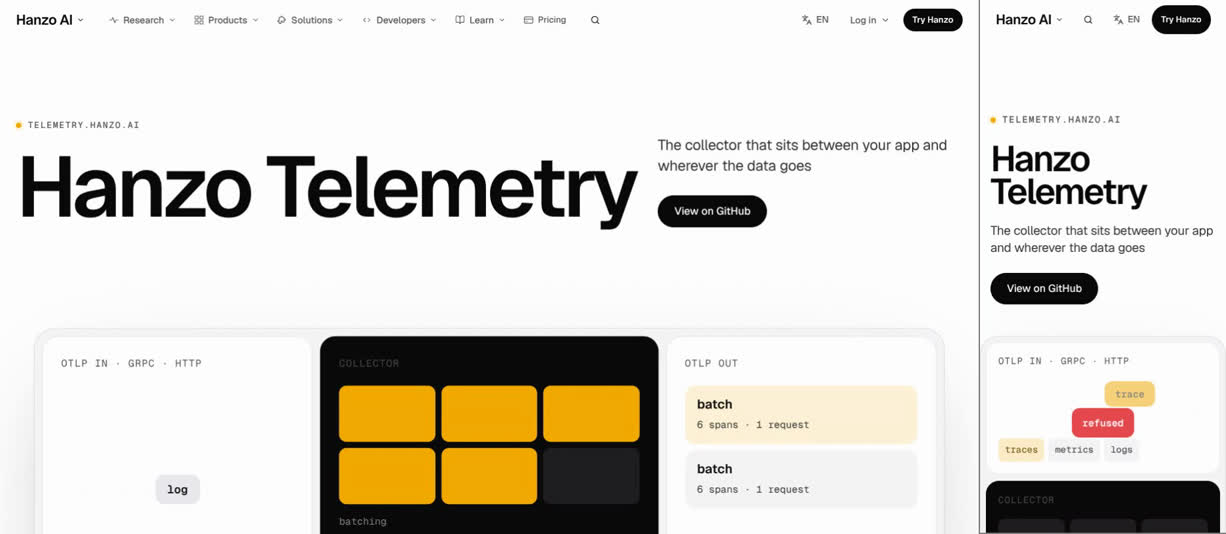
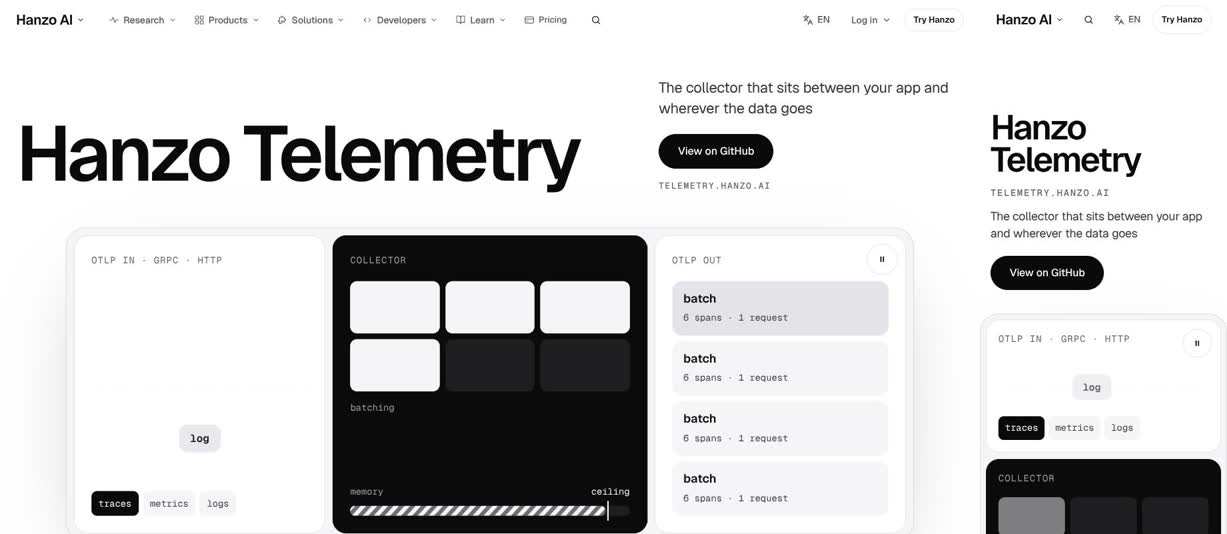
re-review: /telemetry 6/10 on the recoloured build (ask bar over content, everything big, phone still, CLS 0.21)
Claude-Session: https://claude.ai/code/session_01DqUybEnABm6Lfey1goid2b

diff --git a/docs/review/telemetry.md b/docs/review/telemetry.md
@@ -1,84 +1,157 @@
 # /telemetry: James-eye review
 
-Verdict: 5/10
-First complaint: "It's yellow, with red on top. I said greys, silvers, blacks and whites, and here the boxes, the tags, the code highlights and even the glow are yellow. There's a little label stuck on the headline again. And on my phone, after the top, it's the same code file six times with nothing moving."
+Verdict: 6/10
+First complaint: "The colours are right now, but the title's enormous and so is every heading after it. And that little pill at the bottom sits right on top of the code. On my phone, once you're past the top it's the same code file six times and nothing moves."
 
-Reviewed: branch `claude/laughing-hamilton-uisesd` @ `cd5ee2a` (merged to main at this commit; later branch commits only move the shared hero, chapters and close files into `v2/x-hamilton/`, which this walk did not see). Files hash: `e5edfd07ed87`
-Walked 7 Nov 14:01–14:04 UTC on the dev server, moving, at 1470×801 and 375×812 (videos, frame sheets and a frame-difference motion log kept by the critic; the site loader was skipped).
+Reviewed: main @ `2106935` (last page commit `175356b`). Files hash: `54069e1a99ff`
+Walked 7 Nov 14:47–14:51 UTC on the dev server, moving, at 1470×801 and 375×812 (videos, frame sheets and a frame-difference motion log kept by the critic; the site loader was skipped).
 Proof: `img/telemetry.jpg` (desktop first screen | phone first screen).
 
+## Since the last review
+- **Done: the colour and the eyebrow.** There are 0 hues at either width. Before, amber showed in 75 text, 14 background and 8 border uses, plus red. The batch tiles now fill white on black. "refused" is a dashed ink word. The full memory bar hatches grey, and the glow under the config window is white. "telemetry.hanzo.ai" is now a caption under the button on desktop and under the h1 on phone. Nothing sits above any headline.
+- **Done: the first screen, JS off and the chapters.** On desktop, 6 of 25 frames move in the first second after paint (it was 0/25). The memory bar and its ceiling now sit inside 1470×801 (they were below the fold). With JS off nothing is hidden (it was 8 runs, the lede and the ask among them). All six chapters now play on desktop, in order (02–04 were skipped). 04 "A memory ceiling" falls between two screen stops, but the film shows it with memory_limiter lit.
+- **Done: one verb, presses, coverage.** "View on GitHub" is the solid button in the hero, the ask bar and the close. "Deploy to Cloud" is a text link. There are 3 `data-cta` and 1 `data-thumb` (it was 0). The hero button and "hanzoai" press to 0.98, and the rail ticks answer on hover (they were dead or opacity-only). The header names Persona, Goal and CTA, and `docs/coverage/telemetry.md` exists.
+- **Still open in this walk:**
+  - The phone chapters still print the whole 20-line config six times, and nothing moves from s2 to s11.
+  - The seven "Your config" toggles are still solid black pills with dead hovers.
+  - Desktop CLS is worse: 0.213 (it was 0.119).
+  - The first screen and the close are still the Cloud 4 kit.
+  - The copyable config is still the builder's text, and it is not listed as a question for James.
+- **Not walked yet:** `ad2351f` and `d1a2614` reached main through `c3615cd` at 14:52, after this walk started at 14:47. `ad2351f` adds the compact phone config, outlined toggles with checks and fixed heights. `d1a2614` sets h1 52 and heads 26. The coverage card already describes them. On paper they answer fixes 2–5 below; a fresh walk decides.
+
 ## The 11 answers
-1. **Sells in 5 seconds, moves within 1 second?** The words are clear ("Hanzo Telemetry / The collector that sits between your app and wherever the data goes"). The title is 128px on one line at line height 0.92 and cuts in by line mask. The collector under it runs by itself: spans come in one at a time, six tiles fill, a batch leaves as "6 spans · 1 request", the memory bar climbs to the ceiling and the input says "refused". That is the best hero motion in the Cloud 4 group. Desktop still misses the 1-second test: 0 of 25 frames change in the first second after paint. On the dev server the body is blank under the header for about 2 s, as on every page walked, and only then does the title cut in and the collector start (8/55 moving frames in the rest of the 3 s idle, 9/47 in the first dwell). At 1470×801 the collector starts at about y 495, so you see its top 300px. The memory bar and the ceiling, which show "a memory ceiling", sit below the fold. Phone is better: the collector's input column peeks under the button with a chip moving (11/25 moving frames in the first second, 53/59 after).
-2. **One in, one out, or a document?** Desktop starts right. The hero pins, the copy fades and the collector rises and grows into the centre (s1, s2). Then the dark room "One hop you control" pins a config file on the left and one fact on the right, with that fact's block lit. That is the Apple move, but it broke in the walk:
-   - The file sat on 01 for two whole screens (y 4467 and 5117; 0/45 moving frames at 4467). It then jumped to 05 at 5767 and 06 at 6417.
-   - 02 "Traces, metrics and logs", 03 "Batching" and 04 "A memory ceiling" never appeared on desktop.
-   - Pressing the rail's 04 moved the page 2019→3706 and the file still read 01.
-
-   After the chapters, "Put it in front of your backend" opens on a near-empty white screen: the heading alone at the left, with the picker below the fold (s7 frames). Phone is a document: the chapters stack as six blocks, each with its own copy of the same 20-line config. From s3 to s10 nothing visibly moves (largest frame change 1.4; 3 of those 8 screens measure STILL).
-3. **A real object in every section?** Mostly. The hero has the running collector: a drawn diagram of three boxes, not Hanzo product UI, but it does exactly what the copy says. The chapters have the config file, which is code in a window and is repeated six times on phone. "Your config" is a working object: the toggles rewrite the file, and Copy turns to "Copied" on phone. "Get Telemetry" has no object, only big type and two chips.
-4. **One ask, sticky after the hero?** No.
-   - The hero has one solid button, "View on GitHub" (magnetic). On desktop it stays only while the hero is pinned (s0–s1). From s2 on, the only sticky solid is the global header's "Try Hanzo", so no page ask follows you.
-   - Phone: the header's "Try Hanzo" and the bottom bar's "View on GitHub →" are two solid asks on every screen from s2 to s11.
-   - The close's solid button is a third verb, "Deploy to Cloud".
-   - When on, the seven "Your config" toggles (traces, metrics, logs, gRPC, HTTP, batching, memory ceiling) are solid black pills drawn like the primary button: seven equal black buttons on one screen (s7 desktop, s10 phone).
-5. **Every hover and press answers?** No.
-   - "View on GitHub" (hero): the hover answers (magnetic), but there is no press state.
-   - Chapter rail "01": dead hover. Rail "04": opacity-only hover (banned: "buttons that fade on hover"). Both press to 0.98, and pressing jumps the page by 1,700px.
-   - Config pills "traces", "metrics", "gRPC" and "memory ceiling": dead hover. They press to 0.96.
-   - The "hanzoai" chip and "Deploy to Cloud": the hover answers, but there is no press.
-   - Phone taps on "traces", "logs" and "Copy" all answer.
-   - Apart from the two magnetic buttons, nothing follows the pointer.
-6. **Overlap, font swap, layout shift?** Layout shift on desktop: CLS 0.119, over CANON's 0.1 fail line (the lab target is 0.02). The shift comes from the hero's batch list (0.065), the config window (0.059), the memory bar (0.051) and the signal tags (0.051). Phone CLS is 0.007. The h1 box is steady (one reading: 940×123 at top 218 on desktop, 343×108 at 216 on phone). No overlaps were measured, and there is no horizontal scroll at 375 or 320.
-7. **Which reference, and is its motion there?** apple.com product page: the stage that settles as you scroll and the pinned file with one block lit per fact. Both are there, but on desktop half the chapters were skipped. motion.dev: the magnetic primary and the "OTLP OUT" list sliding as batches land. anthropic launch: no hero figure. synchronized.studio card-open: absent, because nothing opens into its page.
-8. **Different from its neighbours?** No. It is the Cloud 4 kit:
-   - The hero is the same `StageHero look="split"` as /billing.
-   - The first screen matches /tunnel: a 128px "Hanzo X" on the left, the lede and a black button on the right, a product strip under them. /metrics and /ledger have the same strip on the fold.
-   - The "01 / 06" pinned chapters in one dark room are the same `PinScenes` as /search and /billing.
-   - The "● X.HANZO.AI" eyebrow is the same as on /search, /sentinel and /metrics.
-   - The close (Paste and ship, Get Telemetry, licence chip, hanzoai chip, Deploy to Cloud) is the same as on every Cloud 4 page.
-
-   Amber is what tells it apart, and /treasury uses the same amber (hue 45). James: "We don't want every page being the same."
-9. **All 18 parts covered?** No; see below. `docs/coverage/telemetry.md` is missing.
+1. **Sells in 5 seconds, moves within 1 second?** Yes.
+   - Desktop: "Hanzo Telemetry" is 116px on one line (top 173, bottom 287). To its right sit the lede, "View on GitHub" and the caption.
+   - The collector fills the rest of the screen from about y 342 to 796, with the memory bar and "ceiling" at about y 765.
+   - The body is blank for about 1.5 s (the dev server, as on every page). Then the title cuts in by line mask and the collector runs by itself: spans come in, the six tiles fill, a batch leaves as "6 spans · 1 request", the bar climbs, hatches at the ceiling and the input says "refused".
+   - Desktop motion: 6/25 moving frames in the first second and 18/47 in the rest of the 3 s.
+   - Phone: the h1 is two lines at 53px, then the caption, the lede, the button and the collector's input panel from about y 385, with a chip moving. Phone motion: 11/25 moving frames in the first second and 55/58 after.
+2. **One in, one out, or a document?** Desktop, yes; phone, a document.
+   - Desktop: the hero pins for a screen and a half while the copy fades and the collector rises and grows (s1).
+   - The dark room "One hop you control" then pins the config on the left and one fact on the right. Each fact lights its block and its stage in the strip, and the chapter titles crossfade: 01 (s2–s3), 02, 03, 04 (between stops), 05 on builder.yaml, then 06.
+   - At 05 the stage jumps: the shorter builder.yaml re-centres, so the strip drops from y 81 to y 214 (133px) and jumps back at 06.
+   - After that, "Your config" on silver, then the black close: "Put it in front of your backend" with the ask and the agent prompt, then "Get Telemetry".
+   - Phone: the six chapters stack, each with its own tab row and the full 20-line file.
+   - Every phone screen from s1 to s11 measures STILL (shot difference 0). s1 is partly the walker's doing: it tapped Pause at 6.6 s, which froze the collector. But s2–s11 have nothing that runs.
+3. **A real object in every section?** Yes, apart from the close.
+   - Hero: the running collector (a drawn diagram rather than Hanzo product UI, but it does exactly what the copy says).
+   - Chapters: the config file and the builder manifest.
+   - "Your config": a working builder. The toggles rewrite the file, and taps answer on phone.
+   - Close: the agent prompt card.
+   - "Get Telemetry" is still type and two chips, with no object.
+4. **One ask, sticky after the hero; scale with rhythm?** The ask has one verb, but it floats over content, and desktop type is big everywhere.
+   - "View on GitHub" is the one solid on the first screen. The ask bar carries it from s1 to s9 at both widths, the header's "Try Hanzo" turns to an outline, and the bar steps aside for the close's solid button. That part is right.
+   - **The bar floats over content.** Desktop s1: it covers the h2 "One hop you control" ([544,727 383×54]). s2: it covers the ends of config lines 18–20 ("→ [otlp" cut off). s9: it sits on the "Your config" code.
+   - On phone the bar sits on the h3 "OTLP in, OTLP out" (s1) and on "A memory ceiling" (s5). It covers the config at s2, s3, s6, s7 and s8, and the gRPC and HTTP toggles at s9.
+   - On s9 the seven "Your config" toggles are solid black, so desktop shows 8 solid fills on one screen.
+   - **Scale:** the desktop h1 rests at 116px (the rule is 52). "One hop you control" is 56px, the chapter titles are 40px, "Put it in front of your backend" is 74px and "Get Telemetry" is 88px (the rule is 26 for section headings).
+   - Each screen does have one big thing, but nothing rests at hanzo.ai's sizes and nothing grows and then settles back. That is the "big h1 beside 56px heads" pattern.
+   - Phone sizes are close to the rule: 53, 36, 28, 40 and 42px.
+5. **Every hover and press answers?** Mostly.
+   - Hero "View on GitHub": the hover answers, and it presses to 0.98.
+   - Pause: it grows to 1.06 on hover (the walker logs this as a jump; it is a scale, not a layout move), and it presses to 0.977.
+   - Rail "01" and "03": the hover answers, and they press to 0.98.
+   - Copy: the hover answers, and it presses to 0.93.
+   - "hanzoai": the hover answers, and it presses to 0.98.
+   - **Dead: the "Your config" toggles.** The hover is dead on traces, metrics, batching and memory ceiling, though they press to 0.98. Their hover only darkens the border, and an "on" toggle's border is already ink.
+   - Phone taps on traces, logs, batching, memory ceiling and Copy all answer. The walker logged "no visible change" for the Pause tap, but the film shows the icon turning to ▶ and the collector stopping at 6.4 s, so it works.
+   - Nothing follows the pointer: the magnetic primary was deleted (the card says so).
+6. **Overlap, font swap, layout shift?** There is layout shift on desktop.
+   - CLS is 0.213, over the 0.1 fail line (the lab target is 0.02), and worse than the 0.119 before.
+   - Sources: the chapter window 0.116 (the 133px drop at 05, visible in the shots), the OTLP out list 0.106, the signal tags 0.078 and the memory bar 0.076.
+   - Phone CLS is 0.007. The h1 box is steady (one reading at each width).
+   - No overlaps were measured apart from the bar's floats (answer 4). There is no horizontal scroll at 375 or 320.
+7. **Which reference, and is its motion there?**
+   - apple.com product page: yes. The stage settles as you scroll, and the pinned file lights one block per fact, now all six.
+   - motion.dev: the OTLP out list slides as batches land, the memory bar eases, and the chapter titles crossfade.
+   - Pointer motion (JAMES rule 9): none.
+   - synchronized.studio card-open: absent.
+   - anthropic launch: no hero figure.
+8. **Different from its neighbours?** Only in the object. The frame around it is the Cloud 4 kit:
+   - **First screen:** the same as /tunnel's, a one-line 116px "Hanzo X" on the left with the lede, a black button and a mono caption on the right, and the product strip on the fold. /search, /sentinel and /stream use the same `StageHero` with the identical 116.145px h1 at line height 0.94.
+   - **Chapters:** the dark room with "01 / 06" under each chapter title and the object on the other side is the same `PinScenes` as /sentinel and /tunnel.
+   - **Close:** "Put it in front of your backend" at 74px, the agent prompt, then "Get Telemetry" at 88px with the licence and hanzoai chips. /stream, /visor and /tunnel measured the same 74px and 88px close.
+   - What is its own: the running collector and reading the facts through the config file.
+   - James: "It's not just a template."
+9. **All 18 parts covered?** No; see below. The card exists, but four of its claims fail this walk.
 10. **Banned tells?** Yes:
-   - Amber UI hue throughout, declared in the file as "Accent: OTel amber" (`--ac: #f2a900`). It colours the collector tiles, the "trace" chip and tag, the first batch card, the chapter numbers, the pipeline strip, the lit config lines and keys, "YOUR CONFIG", the agent prompt's caret and the eyebrow dot. Desktop counts: 75 text, 14 background and 8 border uses. This breaks JAMES.md rule 7.
-   - An amber glow under the config window in the dark room.
-   - Red: the "refused" chip, the memory bar when full, and the "ceiling" word and line.
-   - A "● TELEMETRY.HANZO.AI" eyebrow above the h1 (22px above on desktop, 24px on phone).
-   - Opacity-only hover on the chapter rail, and dead hovers on rail 01 and four config pills.
-   - The same amber as /treasury ("repeated colours across pages").
-11. **Copy untouched?** Yes. Parity is 29/29 text and 2/2 links. The 35 added strings are demo data and labels: YAML keys, "otlp in · grpc · http", "6 spans · 1 request", "your config", "signals", "protocols", "builder.yaml", "my-collector". None is a new sentence or claim. One caution: config.yaml and builder.yaml are the builder's own text (Telemetry.jsx: "a standard OpenTelemetry collector config with placeholders, not a Hanzo default"), and the Copy button hands them to visitors as if Hanzo had published them.
+    - **Something floating over content:** the site-wide ask bar covers headings, code and two toggles at both widths. The fix may be shared (it was requested in `docs/review/SYSTEM.md` at 14:55), but the page still fails.
+    - **Everything big:** the 116px h1 and 56, 74 and 88px section heads, with none resting at hanzo.ai's 52 and 26.
+    - **A dead page on phone:** 11 of the 12 page screens are STILL.
+    - **Layout shift:** desktop CLS 0.213, and the stage jumps 133px at chapter 05.
+    - **Three or more equal buttons:** the seven solid black toggles (JAMES rule 5).
 
-## Missing from the 18 parts (PLAN-COMPONENTS §2.1–2.18, measured)
-- **2.1 Strategy / 4 Common gate:** no `Persona:`, `Goal:`, `CTA:` or metric id in the page header. Phone shows two solid asks on every screen, and the page uses three verbs.
-- **2.3 First impression:** with JS off, the h1 shows but 8 text runs are hidden: the lede, "View on GitHub", the eyebrow and the collector labels. Plan 2.3 is P1. On desktop the walk skipped chapters 02–04. "Put it in front of your backend" opens on an empty white screen. No card opens into its page (Morph row).
-- **2.4 Conversion:** 0 `data-cta`. The thumb bar's verb ("View on GitHub") differs from the close's ("Deploy to Cloud"). 4 raw `.x-btn` uses (plan: `Cta` only).
-- **2.6 Content:** "Copy" is 13px at both widths and "Agent prompt" is 13px on phone (phone floor: 14px). Phone prints the same 20-line config six times.
-- **2.7 Visual system:** the amber, the red and the amber glow break the 0-hue override, and the amber is the same as /treasury's.
-- **2.8 Components:** 9 bare `:hover` rules. The rail and config pills have dead or opacity-only hovers. "View on GitHub", "Deploy to Cloud" and "hanzoai" have no press state.
-- **2.9 Motion:** 2 `setInterval` timers (Frame.jsx). The running collector has no pause control (2.12, WCAG 2.2.2). A rail press jumps the page instead of scrubbing the chapter. The phone chapters never move. Reduced motion is good: everything comes to rest.
-- **2.11 Mobile:** the "hanzoai" chip is 111×36, under 44px.
-- **2.12 Accessibility:** "Your config" measures 1.8:1 contrast. The collector has no pause control.
-- **2.13 Performance:** desktop CLS is 0.119, over the 0.1 fail line in `budgets.json`.
-- **2.16 Developer experience:** the copyable config is not Hanzo's text. James must approve it, or it comes out of the Copy button.
-- **Coverage:** `docs/coverage/telemetry.md` is missing on the branch.
-- Passing: one h1, one main, no horizontal scroll at 320, no raw img/video/table, no native selects or `title=` tooltips, reduced motion comes to rest (0 running after 3 s), phone CLS 0.007, h1 box steady.
+    Clean: no hue, nothing above any headline, no opacity-only hover, no `title=` tooltips, no sound.
+11. **Copy untouched?** Yes. Parity is 29/29 text and 2/2 links.
+    - The 35 added strings are YAML keys and labels: "otlp in · grpc · http", "6 spans · 1 request", "your config", "signals", "protocols", "builder.yaml", "my-collector". None is a new sentence or claim.
+    - The same caution as before: config.yaml and builder.yaml are the builder's own text (Telemetry.jsx says "a standard OpenTelemetry collector config with placeholders, not a Hanzo default"). Copy hands them out as if Hanzo had published them, and the card does not list this as a copy question.
+
+## Missing from the 18 parts (MASTER §2, measured; coverage card checked)
+- **Part 1, strategy:**
+  - The "Your config" screen shows 8 solid fills on desktop (the bar plus seven black toggles) and 6 on phone s9.
+  - The metric id sits inside the CTA line, so the check finds no metric line.
+  - No copy questions are listed: the copyable config is not Hanzo's text.
+- **Part 3, narrative:**
+  - The phone middle is a document. Six stacked chapters each repeat the full file, and s2–s11 are STILL.
+  - "Get Telemetry" has no object.
+- **Part 4, conversion:**
+  - The sticky ask is a floating pill over content (§3.2.6).
+  - There are 4 raw `.x-btn` uses.
+- **Part 6, content:** "Copy" is 13px at both widths; the phone floor is 14px.
+- **Part 7, visual system:**
+  - Telemetry.css writes 13 literal greys that are not on the deck ramp, instead of tokens: #f5f5f7, #e8e8ed, #e3e3e8, #d1d1d6, #a1a1a6, #8e8e93, #6e6e73, #5f5f64, #3a3a3c, #1f1f22, #1c1c1f, #111113 and #0b0b0c.
+  - The config window is outlined and glows (`0 60px 140px -60px`, white 14%), though it does not float ("raise or outline, never both").
+  - It is not different from its neighbours (answer 8).
+- **Part 8, components:**
+  - The 4 tested config toggles have dead hovers.
+  - There are 9 bare `:hover` rules.
+  - Pause scales to 1.06 on hover, which is not one of James's hover transforms.
+- **Part 9, motion:**
+  - After the hero, nothing runs by itself at either width except the prompt's caret.
+  - The walker marks the desktop chapters "moves", but lining up each pair of shots shows a 1px page drift. After that, s3, s4, s5 and s11 differ in under 75 pixels.
+  - Nothing answers the pointer.
+  - There are 2 `setInterval` timers (Frame.jsx).
+- **Part 11, mobile:**
+  - "Deploy to Cloud" is 132×21, under 44px.
+  - The bar covers h3s, the code and the gRPC/HTTP toggles.
+- **Part 13, performance:** desktop CLS is 0.213, over the 0.1 fail line.
+- **Part 16, developer experience:** the copyable config is builder-written. James must approve it, or it comes out of the Copy button.
+- **Coverage card:** `docs/coverage/telemetry.md` covers 18 numbered parts in the older format. It has no `Done here:` lines and no copy-questions or shared-requests lines; it has only a closing "Ledger (deleted)" line. Four claims are false against this walk:
+  - Part 4: "one solid per viewport" (desktop s9 shows 8).
+  - Part 8: "outlined `aria-pressed` pills with an ink check" (the walk shows solid black pills with no check).
+  - Part 11: "each showing only its own config block" and "text ≥14px" (every phone chapter shows the full file, and "Copy" is 13px).
+  - Part 13: "fixed heights (no layout shift)" (desktop CLS 0.213).
+
+  The card was rewritten in `ad2351f`, which reached main after this walk. Capped at 7 until a walk shows these claims hold.
+- **Passing:**
+  - One h1 and one main.
+  - 0 hues at both widths, and nothing above any h1 or h2.
+  - JS off shows every word (0 hidden), and reduced motion settles (0 running after 3 s).
+  - 0 low-contrast runs, 0 `title=` tooltips, and no raw img, video or table.
+  - No horizontal scroll at 320.
+  - 3 `data-cta` and 1 `data-thumb`.
+  - A 44px Pause that works on tap.
+  - Phone CLS 0.007.
+  - Parity 29/29 and 2/2, no console errors, no sound.
 
 ## Fixes (in order)
-1. **Take out the amber and the red:**
-   - Fill the collector tiles with white or silver on the black panel.
-   - Make the "trace" chip and tag and the first batch card grey.
-   - Show the chapter numbers, the pipeline strip and the lit config lines in white, with a white left rule.
-   - Make "YOUR CONFIG" grey and the caret ink.
-   - Delete the amber glow under the config window.
-   - Make "refused" an inverted ink chip, and draw the ceiling line and the full memory bar in white or ink. The word "ceiling" carries the meaning.
-2. **Delete the "● telemetry.hanzo.ai" eyebrow above the h1.** Keep the address inside the collector panel, beside "COLLECTOR", so parity holds. Render the lede and "View on GitHub" visible in the server HTML.
-3. **Fix the chapters:**
-   - Desktop: every screen of scroll must move the file to the next fact, 01 to 06, with none skipped. A rail press scrubs to that chapter in place instead of jumping the page.
-   - Phone: pin the config once at the top of the dark room and light each chapter's block, instead of printing the 20-line file six times. Let the lit block slide between lines so the phone middle moves.
-4. **One ask.** Put "View on GitHub" in the hero, in a desktop sticky bar after the hero, in the phone bar, and as the one solid button in the close. "Deploy to Cloud" becomes the text link beneath. Draw the "Your config" toggles as outlined pills with an ink check when on, so they stop reading as seven black buttons.
-5. **Make every control answer, and stop the shift:**
-   - Rail ticks: on hover the tick widens and shows its chapter title (no opacity fade).
-   - Config pills: the border turns ink on hover.
-   - "View on GitHub", "Deploy to Cloud" and "hanzoai": press to scale 0.98.
-   - Give the "OTLP OUT" list and the memory bar fixed heights, so desktop CLS drops from 0.119 to under 0.02.
-6. **Break the template.** Give /telemetry a first screen that /billing and /tunnel don't have. For example, run the collector the full width of 1470×801 (your app at the left edge, the backend at the right) with the title over it and the memory ceiling in view. Fill the empty "Put it in front of your backend" screen by moving the "Your config" picker beside the heading.
+1. **Get the ask bar off the content.**
+   - Desktop: the shared fix already requested in `docs/review/SYSTEM.md` drops the floating pill. Until it lands, put `data-ask-hide` on the dark room's stage and on "Your config", so the bar never sits on lines 18–20 or the config code.
+   - Phone: give each stacked chapter and "Your config" a bottom padding of the bar's height plus its gap, about 64px, so it never covers an h3, the code or the gRPC/HTTP toggles.
+2. **Bring the type down to hanzo.ai's resting sizes.**
+   - h1 52px, "One hop you control", "Put it in front of your backend" and "Get Telemetry" 26px, chapter titles 17–21px.
+   - If the hero title should be the moment, let it arrive large and shrink to 52px as the stage settles, so the collector is the one big thing.
+   - `d1a2614` claims this; it needs walking.
+3. **Make the phone middle move, and stop repeating the file.**
+   - Show only each chapter's own lit block (`ad2351f` claims this).
+   - Let the hero's ink "trace" chip travel along the chapter's pipeline strip and stop on the lit stage, looping while in view and stopping with the hero's Pause, so s2–s9 are no longer STILL.
+   - On desktop the same chip can run along the strip above the pinned file.
+4. **Stop the jump and the shift.**
+   - Give the config window a fixed 20-line height, so builder.yaml no longer re-centres the stage (the 133px drop at 05).
+   - Give the OTLP out list four fixed slots and the collector row a fixed height, to bring desktop CLS from 0.213 to under 0.02.
+5. **Fix "Your config".**
+   - Draw the toggles outlined, with an ink check when on, so they stop reading as seven black buttons.
+   - Give them a hover that shows when on, such as a grey fill or the check nudging.
+   - Raise "Copy" to 14px on phone, and make "Deploy to Cloud" a 44px row.
+   - List the copyable config on the card as a question for James.
+6. **Break the Cloud 4 template where it is cheapest.** The close is the shared Finale at 74 and 88px with no object. Put the collector at rest, in its final state, beside "Get Telemetry", so the page ends on its own object rather than the kit's chips.
